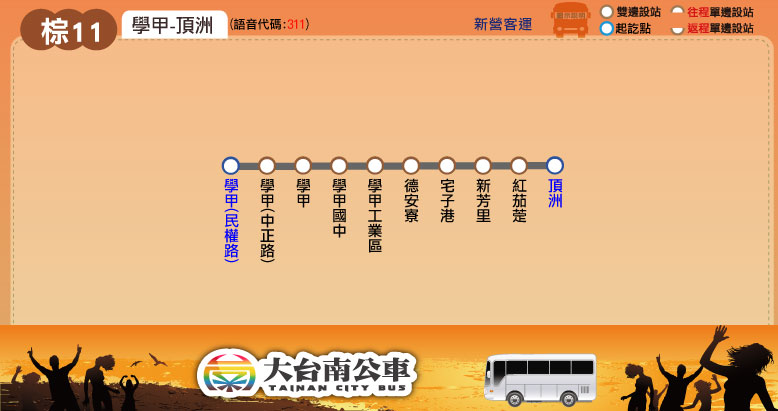
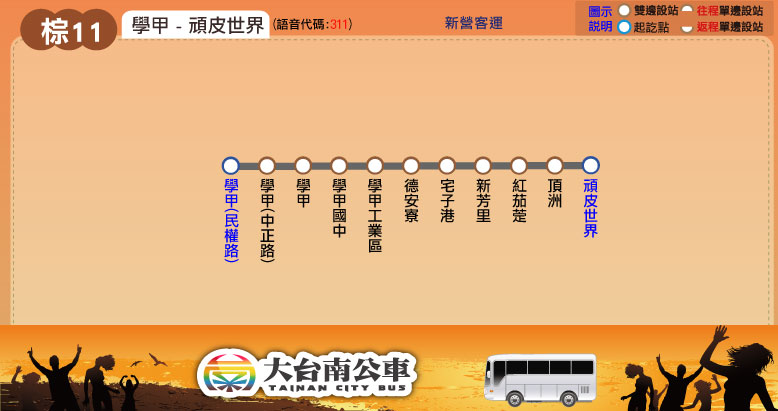
更新路線圖：棕11(延駛「頑皮世界」)；更新時刻表：棕10、棕11

Changed region(s): [[0.5553, 0.0, 1.0, 0.0876], [0.2159, 0.0, 0.4627, 0.1168], [0.6787, 0.3796, 0.7712, 0.5839]]

diff --git a/route/fare_and_time/brown_11.js b/route/fare_and_time/brown_11.js
@@ -1,23 +1,29 @@
-brown_11_interval_name = ["學甲","宅子港","新芳里","紅茄萣","頂洲"];
+brown_11_interval_name = ["學甲","宅子港","新芳里","紅茄萣","頂洲","頑皮世界"];
 brown_11_interval_stop = [ // 2015.09.14 checked
 ["學甲(民權路)","學甲(中正路)","學甲","學甲國中","學甲工業區"], // 學甲
 ["德安寮","宅子港"], // 宅子港
 ["新芳里"], // 新芳里
 ["紅茄萣"], // 紅茄萣
-["頂洲"] // 頂洲
+["頂洲"], // 頂洲
+["頑皮世界"] // 頑皮世界
 ];
 brown_11_fare = [
 [26],
 [26,26],
 [26,26,26],
 [29,26,26,26],
-[31,26,26,26,26]
+[31,26,26,26,26],
+[36,26,26,26,26,26]
 ];
 // format = [time at the start stop] or
 // [time, other] or
 // [time, start_stop, end_stop, other]
-brown_11_main_stop_name = ["學甲","新芳里","頂洲"];
-brown_11_main_stop_time_consume = [0, 15, 20];
-brown_11_important_stop = [0, 2]; // 學甲, 頂洲
-brown_11_time_go = [["06:20",['L']],["07:00"],["10:50",['L']],["13:40",['L']],["17:00"],["18:00",['L']]];
-brown_11_time_return = [["06:40",['L']],["07:20"],["11:10",['L']],["14:00",['L']],["17:20"],["18:20",['L']]];
+brown_11_main_stop_name = ["學甲<br />(民權路)","新芳里","頂洲","頑皮世界"];
+brown_11_main_stop_time_consume = [0, 15, 20, 25];
+brown_11_important_stop = [0, 3]; // 學甲(民權路), 頑皮世界
+var Syuejia = 0;
+var Sinfang_Vil = 1;
+var Dingjhou = 2;
+var Wanpi_World = 3;
+brown_11_time_go = [["06:15",['L',[Sinfang_Vil,-2,Dingjhou,-1,Wanpi_World,-2]]],["07:00",['L']],["10:40",['L']],["13:40",['L']],["17:00",['L']],["18:00",['L']]];
+brown_11_time_return = [["06:35",['L',[Dingjhou,-2,Syuejia,2]]],["07:25",['L',[Dingjhou,-2,Syuejia,2]]],["11:05",['L',[Dingjhou,-2,Syuejia,2]]],["14:05",['L',[Dingjhou,-2,Syuejia,2]]],["17:25",['L',[Dingjhou,-2,Syuejia,2]]],["18:25",['L',[Dingjhou,-2,Syuejia,2]]]];

diff --git a/brown/brown_11.html b/brown/brown_11.html
@@ -7,7 +7,7 @@
 	route_name_en = 'Brown 11';
 	route_file_name = 'brown_11';
 	route_type = 'brown';
-	route_interval = ['學甲','頂洲'];
+	route_interval = ['學甲','頑皮世界'];
 </script>
 <script src="../tools/web_model.js"></script> 
 <script type="text/javascript">
@@ -20,7 +20,7 @@
 	block_route_map(null);
 	block_route_info(route_interval,'新營客運','','里程計費','http://www.2384.com.tw/ebus/jsp/ajaxBus.jsp?pathId=1311&locale=zh_TW');
 	block_fare(0, null);
-	block_time_schedule('學甲','頂洲',L_message);
+	block_time_schedule('學甲','頑皮世界',L_message);
 	block_transfer(transfer_syuejia);
 	block_copyright();
 </script>

diff --git a/tools/route_infor.js b/tools/route_infor.js
@@ -57,7 +57,7 @@ brown_2_route = '新營 ─ 鹽水 ─ 下中';
 brown_3_route = '新營 ─ 鹽水 ─ 南港里';
 brown_3_1_route = '新營 ─ 鐵線里';
 brown_10_route = '學甲 ─ 麻豆';
-brown_11_route = '學甲 ─ 頂洲';
+brown_11_route = '學甲 ─ 頑皮世界';
 
 orange_route = '佳里 ─ 麻豆 ─ 善化 ─ 玉井';
 orange_1_route = '善化轉運站 ─ 大內 ─ 環湖 ─ 蒙正';
